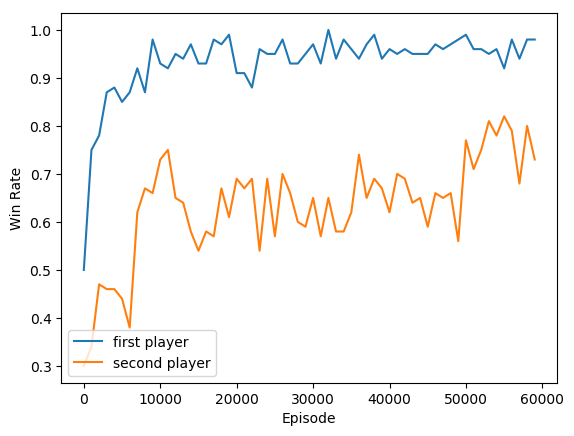
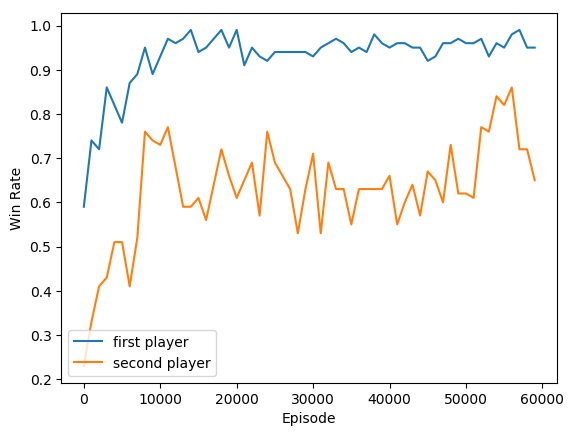
small print edit

diff --git a/p4 (bonus)/tictactoe_bonus.py b/p4 (bonus)/tictactoe_bonus.py
@@ -273,7 +273,7 @@ def test(policy, env, ep, num_games=100, turn=1):
         elif status == env.STATUS_LOSE:
             lose += 1
 
-    print('# Games: {}     Wins: {}     Ties: {}     Losses: {}     First Player: {}'.format(
+    print('# Games: {}\tWins: {}\tTies: {} \tLosses: {}\tFirst Player: {}'.format(
         num_games, win, tie, lose, first_player))
     return win/num_games, tie/num_games, lose/num_games
 
@@ -307,7 +307,7 @@ if __name__ == '__main__':
     policy = Policy()
     env = Environment()
 
-    train(policy, env)
+    #train(policy, env)
     plot_performance(policy, env)
 
     end = time.time()
